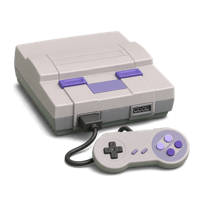
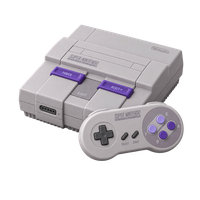
The site catches up with build 38
Changelog: the console record, a color per appearance, the redrawn console set,
choosing many games at once, and bringing a library in — plus the galleries,
spin-in-place, the three-column stage and the Mac's own window, and the fixes
since 09-08 (scroll position across a resize, a ground light mode was not
wearing, a theme stale after a sync, the Mac's doubled Done).

Roadmap: 'The consoles themselves' moves from Next to shipped, with the color
pairs and bulk select beside it; reviewed 11 September.

Help: four new questions — importing a CSV, fixing many games at once, the
console record, and which machine a console draws. The page's own rules (every
question owned by a card, the reference in card order) pass.

The six console pictures on the home page are re-exported from the app's
current icons, so the site shows the machines the app draws.

Not pushed: the site goes up when the build is live for testers.

diff --git a/site/src/data/roadmap.ts b/site/src/data/roadmap.ts
@@ -8,9 +8,15 @@
  */
 
 /** Shown on both surfaces, so the app can say when this was last honest. */
-export const reviewed = '8 September 2026';
+export const reviewed = '11 September 2026';
 
 export const shipped = [
+  { t: 'The consoles themselves', build: 38,
+    d: 'A console is something you own in its own right: how you have it, when you got it, a photograph of the actual machine — and which model the app draws, from the Funtastic N64 to a coral Switch Lite.' },
+  { t: 'A color for light and another for dark', build: 38,
+    d: 'Pick a pair for each appearance and the app changes with the system — accent, ground and widgets together.' },
+  { t: 'Choose many games at once', build: 38,
+    d: 'Select games in Library or on a console page and set the console you own them on, or their status, for all of them together.' },
   { t: 'Home is yours to arrange', build: 38,
     d: 'Your consoles in a case under your name, every shelf a choice, a collection as its own shelf — in the order you drag, following you to every device.' },
   { t: 'Maps, with pins that mean something', build: 38,
@@ -81,7 +87,6 @@ export const horizons = [
     note: 'planned',
     color: '#0A84FF',
     items: [
-      { t: 'The consoles themselves', d: "A system becomes something you own in its own right, with add-ons attached to the machine they plug into — rather than a label that only ever exists on a game." },
       { t: 'Moments worth celebrating', d: 'Finishing a game or hitting a milestone should feel like something.' },
       { t: 'Replays', d: 'A look back at a month, a quarter or a year, built from your own library on your own device.' },
     ],

diff --git a/site/src/content/changelog/0.1.0-38.md b/site/src/content/changelog/0.1.0-38.md
@@ -2,7 +2,7 @@
 version: "0.1.0 (38)"
 date: 2026-09-08
 title: "Home is a self-portrait, and the map comes home"
-summary: "Your consoles and your collections sit on Home in the order you choose. A game can carry its maps — your own pictures of the world, with pins that tick the tracker."
+summary: "Your consoles are things you own now, in a case under your name — each one a record with its own photo, and the machine you actually had drawn on it. Maps come to the game page, and every color works on both grounds."
 draft: true
 ---
 
@@ -38,6 +38,34 @@ The color picker is seven circles. Pick one for the **accent** and it's the same
 
 Buttons look the way the palette does: the accent as the fill, its step as the ink and as a hard edge beneath. Play on Home, Start Session and Place on a map lead; no more white text on a light ground.
 
+### Your consoles are things you own [new]
+
+A console used to be a word on a game. It's a record now: **how** you have it — the same nine ways a game can be yours — **when you got it**, and a photograph of the actual machine on your shelf.
+
+**It fills itself in.** Add a game on the SNES and the SNES is yours; a physical game on a console you only emulate asks first, once, and remembers your answer. Nothing is ever assumed from a display copy.
+
+**Which one you had.** A platform is thirty years of different objects, so the console page asks which machine to draw: the Funtastic N64 or the charcoal one, the front-loading NES or the top-loader, a Switch Lite in coral, a Game Boy in Play It Loud yellow. Underneath, **Machines you have had** keeps the whole lineage, oldest first — the Mac from 1984 and the one on your desk today.
+
+Consoles export with your library, and deleting one leaves it in Recently Deleted for thirty days.
+
+### A color for light and another for dark [new]
+
+The palette is seven pairs plus Mono, and each appearance gets its own. Tap the light half of the preview and pick; tap the dark half and pick something else. Follow the system and the app changes with it — accent, ground, widgets and all. "Use the default colors" puts both back to what an empty library looks like.
+
+The play controls answer your finger now: a firm tap when you start or resume, a lighter one for pause and stop, and a small success when a session is logged.
+
+### The console set, redrawn [new]
+
+Ninety-odd machines, drawn again with nothing plugged in: ports empty, the controller sitting in front. Every logo is back where the real hardware has it, and the shells you can choose from now run to the Funtastic N64s, the Play It Loud Game Boys, the Game Boy Color's berry and kiwi and teal, the GBA and its SP, the DS Lite, the 3DS, the GameCube, the Switch Lite and the OLED.
+
+### Choose many games at once [new]
+
+**Library or any console page → Filter → Select Games…**. Tap the ones you mean — each gets a check and an accent outline — then set the console you own them on, or their status, for all of them together. It's the fastest way to fix a hundred games that came in from another app on the wrong system.
+
+### Bringing a library in [new]
+
+**Settings → Your data → Import from CSV** reads an export from Gamery, Backloggd, a spreadsheet, or anywhere else. A row that carries an **IGDB id** is matched by it, exactly, rather than guessed at from its title — so an export that has them arrives with nothing to check. A cell naming two systems ("Xbox,Mac") makes the game yours on both. Everything is reviewed before a single game is added, and it waits if iCloud is still bringing your library down.
+
 ### Also new
 
 - **Your series, from Wikidata.** When IGDB filed a game under no franchise, Game Info's Series line and the "More from…" shelf use Wikidata's series instead.
@@ -56,6 +84,12 @@ Buttons look the way the palette does: the accent as the fill, its step as the i
 - The in-app question waits until a game has been in your library for a day, rather than appearing beside the first title you type.
 - **Ownership & access** — the settings row's new name, since five of its nine words aren't ownership.
 
+- **Swipe through the pictures.** Open a screenshot and swipe for the next one; tap another trailer and it replaces the one playing, without closing anything first.
+- **Spin the art in place.** Drag a game's cover or logo on its page and it tilts and springs back. Right-click either one — press and hold on a phone — for all three artwork choices.
+- **Three columns on a wide window.** Open the tracker and the videos on a Mac window wider than 1,400pt and the game page stays beside them rather than sliding off.
+- **All Game Pages is a window of its own on the Mac**, so you can drag it off the header you are changing and watch the page change behind it.
+- **The Mac saves where you say.** Export opens a real save panel, every settings page wears the app's colors, and Escape closes a sheet.
+
 ### Fixed
 
 - A memory written after 8 PM Eastern was filed on tomorrow. It's filed on the day you wrote it, in every time zone.
@@ -63,3 +97,7 @@ Buttons look the way the palette does: the accent as the fill, its step as the i
 - The ⋯ button's shadow in light mode read as a grey smear. It's a quarter of the weight there.
 - The Theme & colors page kept the old accent on its own icon after you changed it, and its swatch drew the ink rather than the color you picked.
 - A game page layout that no longer exists ("banner", from an old build) repairs itself to Showcase instead of syncing forever.
+- Scrolling down a game page and then resizing the window sent you back to the top. It keeps your place, both directions.
+- A ground chosen for dark mode was being worn by light mode's Home Screen widget, and a game page kept the app's built-in purple instead of the color you chose.
+- The color editor could show colors you were not wearing after iCloud synced a change; the app now re-reads the theme whenever a sync lands.
+- On the Mac, the settings sheet's Done sat on every page, above the color editor's own Cancel and Done. It belongs to the settings home page.
